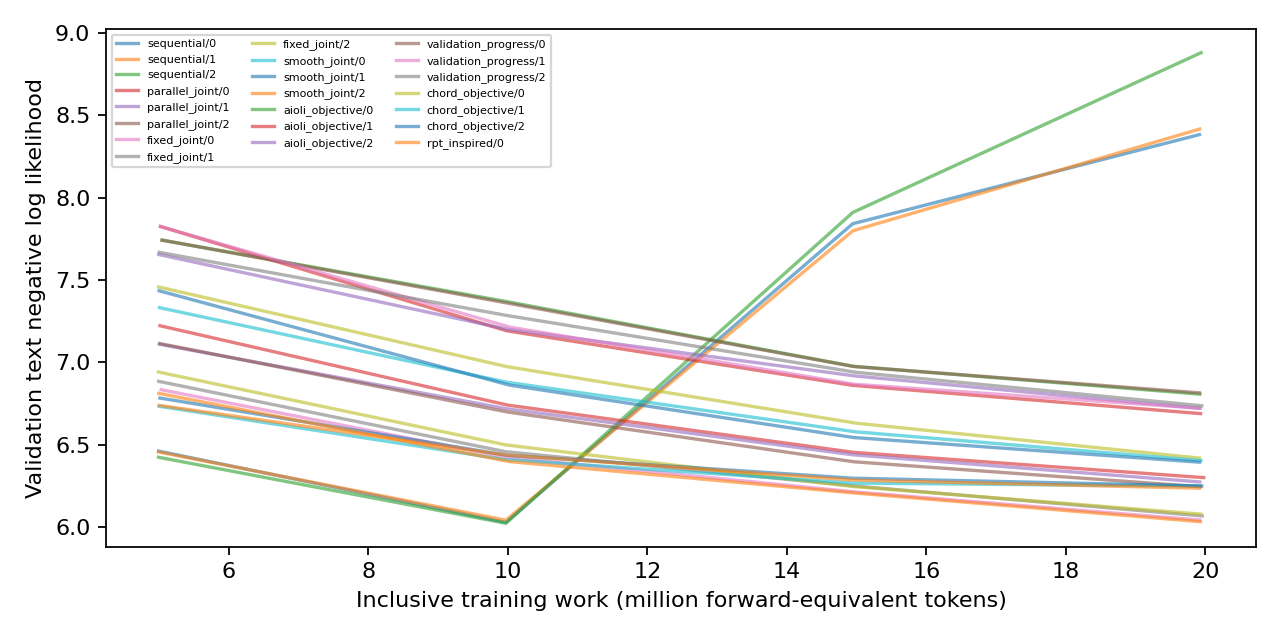
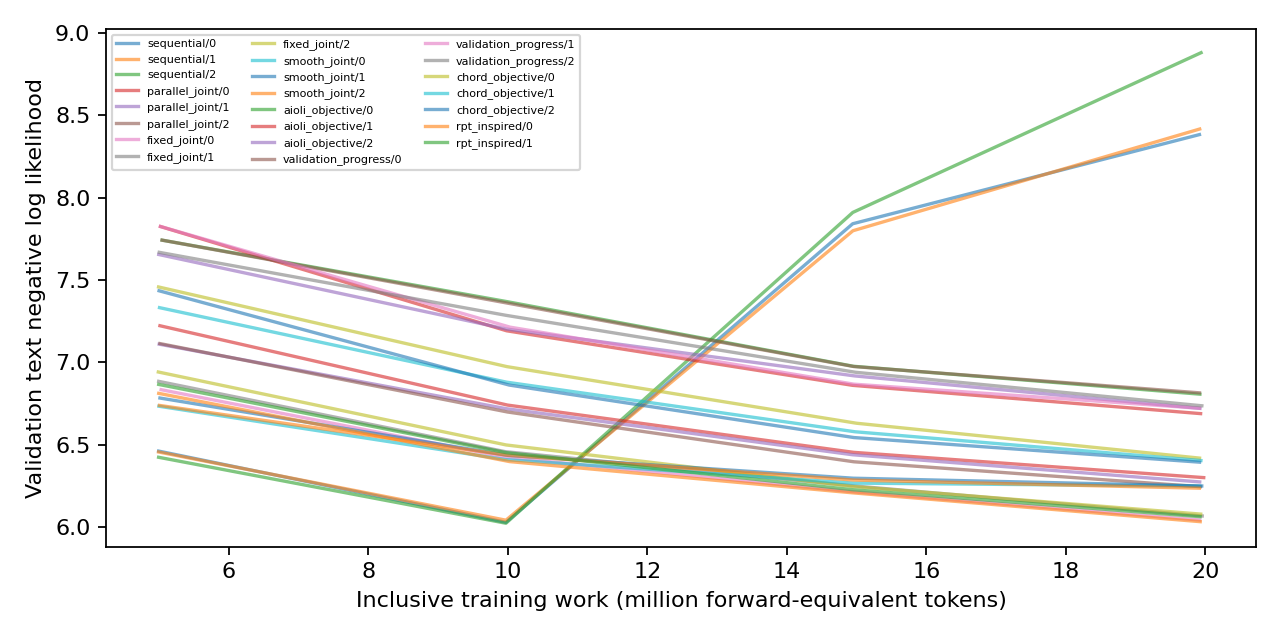
Report verified unified-training pilot progress

diff --git a/experiments/01_scratch_joint_objectives/results.md b/experiments/01_scratch_joint_objectives/results.md
@@ -26,14 +26,14 @@
 | chord_objective | 1 | complete | 19.939 | 0.2588 [0.2416, 0.2768] | 0.0000 [0.0000, 0.0029] | 6.3724 [6.3460, 6.4014] | 0.4766 [0.4162, 0.5376] / 0.5234 [0.4624, 0.5838] |
 | chord_objective | 2 | complete | 19.919 | 0.2588 [0.2416, 0.2768] | 0.0000 [0.0000, 0.0029] | 6.3972 [6.3709, 6.4250] | 0.4805 [0.4200, 0.5415] / 0.5625 [0.5013, 0.6219] |
 | rpt_inspired | 0 | complete | 19.929 | 0.2466 [0.2297, 0.2644] | 0.0061 [0.0031, 0.0119] | 5.9751 [5.9454, 6.0066] | 0.4844 [0.4238, 0.5454] / 0.4531 [0.3933, 0.5143] |
-| rpt_inspired | 1 | pending | unavailable | unavailable | unavailable | unavailable | unavailable |
+| rpt_inspired | 1 | complete | 19.927 | 0.2542 [0.2371, 0.2721] | 0.0136 [0.0086, 0.0215] | 6.0119 [5.9830, 6.0437] | 0.5156 [0.4546, 0.5762] / 0.4883 [0.4277, 0.5492] |
 | rpt_inspired | 2 | pending | unavailable | unavailable | unavailable | unavailable | unavailable |
 
 NLL = negative log likelihood; preference raw ordering is the preference endpoint, implicit ordering is diagnostic. Scratch primary: WikiText NLL; early-checkpoint primary: ARC-Easy normalized accuracy. Unassisted GSM8K remains a sparse secondary diagnostic.
 
 Intervals: 95% Wilson binary-item score, conditional on each trained model; p-val=n/a (no hypothesis test). Three seeds do not establish universal superiority. Aioli, CHORD (Controllable Harmonization of On- and Off-Policy Reinforcement Learning via Dynamic Weighting), and RPT (Reinforcement Pre-Training) are declared adaptations; exact CHERRY-RL identity remains unresolved.
 
-Complete: 22/24. See `expt_v1/PROTOCOL.md` and the program review reconciliation.
+Complete: 23/24. See `expt_v1/PROTOCOL.md` and the program review reconciliation.
 
 Seed uncertainty, two-stage seed/item intervals, initial-checkpoint changes and all paired comparisons: `expt_v1/analysis.json`. Missing trained seeds remain missing with separate accuracy sensitivity bounds. p-val=n/a throughout; no formal superiority verdict.
 

diff --git a/experiments/00_program/FINAL_STATUS.md b/experiments/00_program/FINAL_STATUS.md
@@ -1,6 +1,6 @@
 # Full-program status
 
-Verified cells: 22/48; failed: 0; interrupted: 0; pending: 26; unstarted at global bound: 0.
+Verified cells: 23/48; failed: 0; interrupted: 0; pending: 25; unstarted at global bound: 0.
 
 Full-program execution is incomplete. Required plan and implementation findings are reconciled; see acceptance.json.
 Results and uncertainty are in each experiment folder; no universal-superiority claim.
